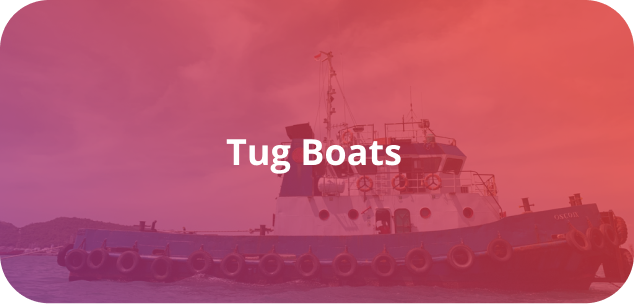
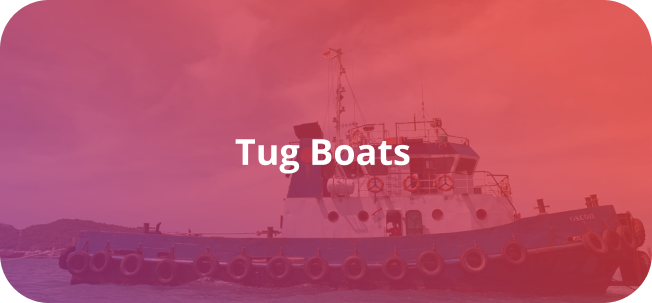
tb align

diff --git a/services.html b/services.html
@@ -136,13 +136,13 @@
         <div class="d-flex flex-row flex-nowrap overflow-auto">
             <div class="card card-block mx-2">
                 <a href="fleets.html#ship-tug" class="boat"><img src="asset/tb.png" class="card-img-top" alt="profile-picture"></a>
-            </div>
+            </div>            
             <div class="card card-block mx-2">
                <a href="fleets.html#ship-oil-barges" class="boat"> <img src="asset/ob.png" class="card-img-top" alt="profile-picture"></a>
             </div>
             <div class="card card-block mx-2">
                <a href="fleets.html#ship-flatop-barges" class="boat"> <img src="asset/ftb.png" class="card-img-top" alt="profile-picture"></a>
-            </div>            
+            </div>
       </div>
      <div class="d-flex align-items-center justify-content-center h-100"> 
     <a href="fleets.html"><button class="btn" id="ourfleets">Our Fleets</button></a>

diff --git a/css/style-services.css b/css/style-services.css
@@ -48,7 +48,7 @@ h1 {
  }
 
  .card {
-   min-width: 490px;
+   min-width: 480px;
  }
 
  #service-type {
